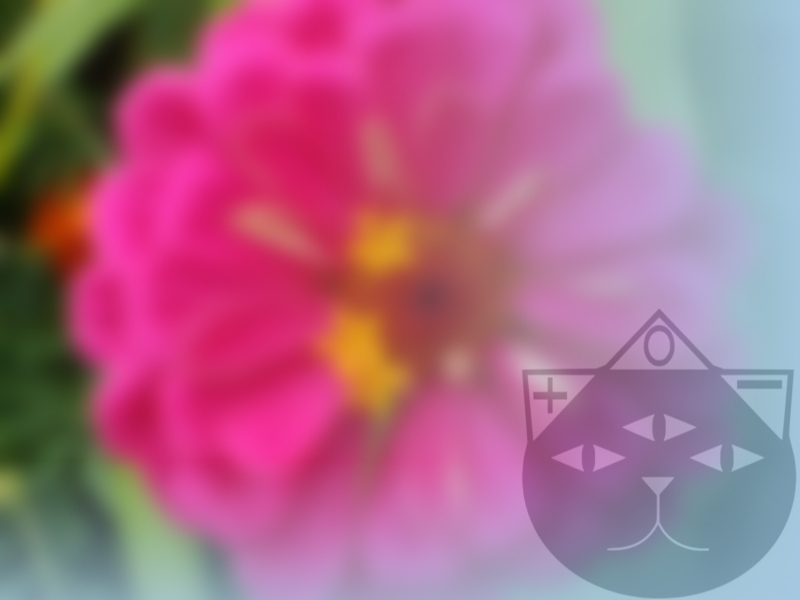
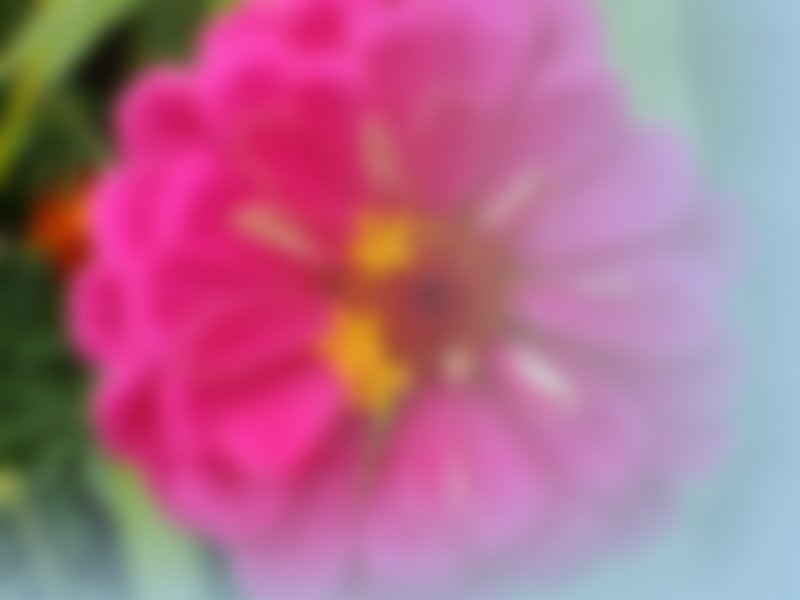
make launcher resizable, with dynamic UI, begin work on new color theme system.

Changed region(s): [[0.6562, 0.51, 1.0, 1.0]]

diff --git a/launcher.py b/launcher.py
@@ -30,7 +30,7 @@ pygame.display.set_caption(("SBTCVM Launcher"), ("SBTCVM Launcher"))
 
 windowicon=pygame.image.load(os.path.join("VMSYSTEM", "GFX", "launch", 'icon.png'))
 pygame.display.set_icon(windowicon)
-screensurf=pygame.display.set_mode((800, 600))
+screensurf=pygame.display.set_mode((800, 600), pygame.RESIZABLE)
 screenx=800
 screeny=600
 vmui.initui(screensurf, 1)
@@ -42,10 +42,15 @@ Copyright (c) 2016-2017 Thomas Leathers and Contributors
 See README.md for more information."""
 
 #image data:
-bghud=pygame.image.load(os.path.join("VMSYSTEM", "GFX", "launch", 'launchhud.png')).convert_alpha()
+#bghud=pygame.image.load(os.path.join("VMSYSTEM", "GFX", "launch", 'launchhud.png')).convert_alpha()
+bghud=pygame.Surface((screenx, screeny), SRCALPHA)
 
 
 bg=(libthemeconf.bgmake(bghud)).convert()
+
+sbtcvmbadge=pygame.image.load(os.path.join("VMSYSTEM", "GFX", "launch", 'SBTCVMbadge.png')).convert()
+bgoverlay=pygame.image.load(os.path.join("VMSYSTEM", "GFX", 'helpbgover.png')).convert_alpha()
+
 gtticn=pygame.image.load(os.path.join("VMSYSTEM", "GFX", "launch", 'gtt.png')).convert()
 introicn=pygame.image.load(os.path.join("VMSYSTEM", "GFX", "launch", 'intro.png')).convert()
 
@@ -66,7 +71,7 @@ fvcatmenu=pygame.image.load(os.path.join("VMSYSTEM", "GFX", "launch", 'catmenu.p
 class launchtile:
 	def __init__(self, label, icon, ltype, lref=None, lref2=None):
 		self.label=label
-		self.textren=tilefont.render(self.label, True, (0, 0, 0))
+		self.textren=tilefont.render(self.label, True, libthemeconf.tiletext)
 		self.icon=icon
 		self.ltype=ltype
 		self.lref=lref
@@ -77,7 +82,7 @@ class launchtile:
 		self.iconh=60
 		self.tilebox=pygame.Rect(0, 0, self.tileh, self.tilew)
 		self.tilesurf=pygame.Surface((self.tilew, self.tileh), SRCALPHA)
-		self.tilesurf.fill((255, 255, 255, 200))
+		self.tilesurf.fill(libthemeconf.tilecolor)
 		self.textx=((self.tileh // 2) - (self.textren.get_width() // 2))
 		self.iconx=((self.tileh // 2) - (self.icon.get_width() // 2))
 		self.icony=3
@@ -144,11 +149,27 @@ filemenu=[fmhelp, fmabout, fmabout2, fmbg, fmquit]
 
 scupdate=1
 qflg=0
+resizeflg=0
 while qflg==0:
+	if resizeflg==1:
+		resizeflg=2
+	elif resizeflg==2:
+		screensurf=pygame.display.set_mode((resw, resh), pygame.RESIZABLE)
+		bg=(libthemeconf.bgmake(None)).convert()
+		bg=pygame.transform.scale(bg, (resw, resh))
+		scupdate=1
+		resizeflg=0	
+		screeny=resh
+		screenx=resw
 	#display drawing
 	if scupdate==1:
 		scupdate=0
+		screensurf.fill(libthemeconf.deskcolor)
 		screensurf.blit(bg, (0, 0))
+		hudrect=pygame.Rect(0, 0, screenx, 44)
+		screensurf.blit(bgoverlay, ((screenx - 250), (screeny - 250)))
+		pygame.draw.rect(screensurf, libthemeconf.hudbg, hudrect, 0)
+		screensurf.blit(sbtcvmbadge, ((screenx-120), 0))
 		tilex=10
 		tiley=60
 		tilejumpx=100
@@ -160,7 +181,7 @@ while qflg==0:
 		#tile render
 		for tile in tilelist:
 			tile.render(tilex, tiley)
-			if tilex+tilejumpx<screenx:
+			if tilex+tilejumpx+90<screenx:
 				tilex += tilejumpx
 			else:
 				tilex=10
@@ -177,6 +198,12 @@ while qflg==0:
 		if event.type == KEYDOWN and event.key == K_F8:
 			pygame.image.save(screensurf, (os.path.join('CAP', 'SCREENSHOT-launcher.png')))
 			break
+		if event.type==VIDEORESIZE:
+			resizeflg=1
+			resw=event.w
+			resh=event.h
+			time.sleep(0.1)
+			break
 		if event.type==MOUSEBUTTONDOWN:
 			#process tile clicks
 			for tile in tilelist:
@@ -192,10 +219,10 @@ while qflg==0:
 				if menuret=="ABOUT":
 					vmui.okdiag(diagabt, (screenx // 2), (screeny // 2))
 				if menuret=="SETBG":
-					libthemeconf.settheme(3, 43)
+					vmui.settheme(3, 43)
 					scupdate=1
-					bg=(libthemeconf.bgmake(bghud)).convert()
-						
+					bg=(libthemeconf.bgmake(None)).convert()
+					bg=pygame.transform.scale(bg, (screenx, screeny))
 				if menuret=="QUIT":
 					qflg=1
 					break

diff --git a/VMSYSTEM/libvmui.py b/VMSYSTEM/libvmui.py
@@ -7,6 +7,7 @@ from pygame.locals import *
 #import libSBTCVM
 #import libbaltcalc
 import subprocess
+import VMSYSTEM.libthemeconf as libthemeconf
 pygame.font.init()
 #pygame.mixer.init()
 
@@ -14,6 +15,10 @@ pygame.font.init()
 #this library handles many graphical tasks, as well as containing
 #functions for many tools and features found in the menus and in MK2-TOOLS
 #even the VM pause menu is in here.
+
+
+
+
 
 #fonts
 simplefont = pygame.font.SysFont(None, 16)
@@ -552,7 +557,7 @@ class menuitem:
 # -reclick=0 just returns upon click outside menu
 # -reclick=2 ignores click outside menu
 # (menuset will return None upon returning due to click outside menu)
-def menuset(menulist, xpos, ypos, reclick=1, textcol=(0, 0, 0), unavcol=(100, 100, 100), linecol=(120, 120, 120), bgcol=(255, 255, 255),  fontsize=20):
+def menuset(menulist, xpos, ypos, reclick=1, textcol=libthemeconf.diagtext, unavcol=libthemeconf.diaginact, linecol=libthemeconf.diagline, bgcol=libthemeconf.diagbg,  fontsize=20):
 	global screensurf
 	scbak=screensurf.copy()
 	textfnt = pygame.font.SysFont(None, fontsize)
@@ -672,7 +677,7 @@ def listline(textstring):
 # (okdiag will return None upon returning due to click outside dialog)
 #
 #SPECIAL NOTE ABOUT DIALOGS: they will CENTER on xpos, ypos!
-def okdiag(textstring, xpos, ypos, reclick=2, textcol=(0, 0, 0), linecol=(120, 120, 120), bgcol=(255, 255, 255),  fontsize=20):
+def okdiag(textstring, xpos, ypos, reclick=2, textcol=libthemeconf.diagtext, linecol=libthemeconf.diagline, bgcol=libthemeconf.diagbg,  fontsize=20):
 	global screensurf
 	scbak=screensurf.copy()
 	btnw=100
@@ -747,7 +752,7 @@ def okdiag(textstring, xpos, ypos, reclick=2, textcol=(0, 0, 0), linecol=(120, 1
 # (okdiag will return None upon returning due to click outside dialog)
 #
 #SPECIAL NOTE ABOUT DIALOGS: they will CENTER on xpos, ypos!
-def yndiag(textstring, xpos, ypos, reclick=2, textcol=(0, 0, 0), linecol=(120, 120, 120), bgcol=(255, 255, 255),  fontsize=20):
+def yndiag(textstring, xpos, ypos, reclick=2, textcol=libthemeconf.diagtext, linecol=libthemeconf.diagline, bgcol=libthemeconf.diagbg,  fontsize=20):
 	global screensurf
 	scbak=screensurf.copy()
 	btnw=100
@@ -1372,5 +1377,21 @@ def creditsscroll():
 				elif event.type == QUIT:
 					return()
 
+mbg0=menuitem("Blue Gradient", "BG0")
+mbg1=menuitem("Flower", "BG1")
+mbg2=menuitem("Clouds", "BG2")
 
+bgmenu=[mbg0, mbg1, mbg2]
+
+def settheme(xpos, ypos):
+	bgret=menuset(bgmenu, xpos, ypos, reclick=0, fontsize=26)
+	if bgret=="BG0":
+		libthemeconf.setconf("desk", "bgtheme", "0")
+		libthemeconf.saveconf()
+	if bgret=="BG1":
+		libthemeconf.setconf("desk", "bgtheme", "1")
+		libthemeconf.saveconf()
+	if bgret=="BG2":
+		libthemeconf.setconf("desk", "bgtheme", "2")
+		libthemeconf.saveconf()
 

diff --git a/VMSYSTEM/libthemeconf.py b/VMSYSTEM/libthemeconf.py
@@ -5,7 +5,7 @@ import sys
 import time
 import pygame
 from pygame.locals import *
-import VMSYSTEM.libvmui as vmui
+#import VMSYSTEM.libvmui as vmui
 
 
 
@@ -42,7 +42,7 @@ def resetconf():
 		sys.exit("ERROR: libthemeconf: UNABLE TO LOAD: theme.xml")
 
 
-def bgmake(programbgoverlay):
+def bgmake(programbgoverlay=None):
 	themebg0=pygame.image.load(os.path.join(os.path.join('VMSYSTEM', 'GFX'), 'THEME-BG0.jpg'))
 	themebg1=pygame.image.load(os.path.join(os.path.join('VMSYSTEM', 'GFX'), 'THEME-BG1.jpg'))
 	themebg2=pygame.image.load(os.path.join(os.path.join('VMSYSTEM', 'GFX'), 'THEME-BG2.jpg'))
@@ -53,24 +53,20 @@ def bgmake(programbgoverlay):
 		bg=themebg1
 	if BGNUM==2:
 		bg=themebg2
-	bg.blit(programbgoverlay, (0, 0))
+	if programbgoverlay!=None:
+		bg.blit(programbgoverlay, (0, 0))
 	return bg
 
 
-mbg0=vmui.menuitem("Blue Gradient", "BG0")
-mbg1=vmui.menuitem("Flower", "BG1")
-mbg2=vmui.menuitem("Clouds", "BG2")
 
-bgmenu=[mbg0, mbg1, mbg2]
 
-def settheme(xpos, ypos):
-	bgret=vmui.menuset(bgmenu, xpos, ypos, reclick=0, fontsize=26)
-	if bgret=="BG0":
-		setconf("desk", "bgtheme", "0")
-		saveconf()
-	if bgret=="BG1":
-		setconf("desk", "bgtheme", "1")
-		saveconf()
-	if bgret=="BG2":
-		setconf("desk", "bgtheme", "2")
-		saveconf()
+
+hudbg=(229, 229, 229)
+hudtext=(0, 0, 0)
+deskcolor=(44, 71, 100)
+tilecolor=(255, 255, 255, 200)
+tiletext=(0, 0, 0)
+diagbg=(255, 255, 255)
+diagtext=(0, 0, 0)
+diaginact=(100, 100, 100)
+diagline=(120, 120, 120)

diff --git a/fileview2.py b/fileview2.py
@@ -387,7 +387,7 @@ while quitflag==0:
 				if menuret=="ABOUT":
 					vmui.okdiag(diagabt, (screenx // 2), (screeny // 2))
 				if menuret=="SETBG":
-					libthemeconf.settheme(3, 45)
+					vmui.settheme(3, 45)
 					scupdate=1
 					filebg=(libthemeconf.bgmake(filehud)).convert()
 				if menuret=="NEW":
